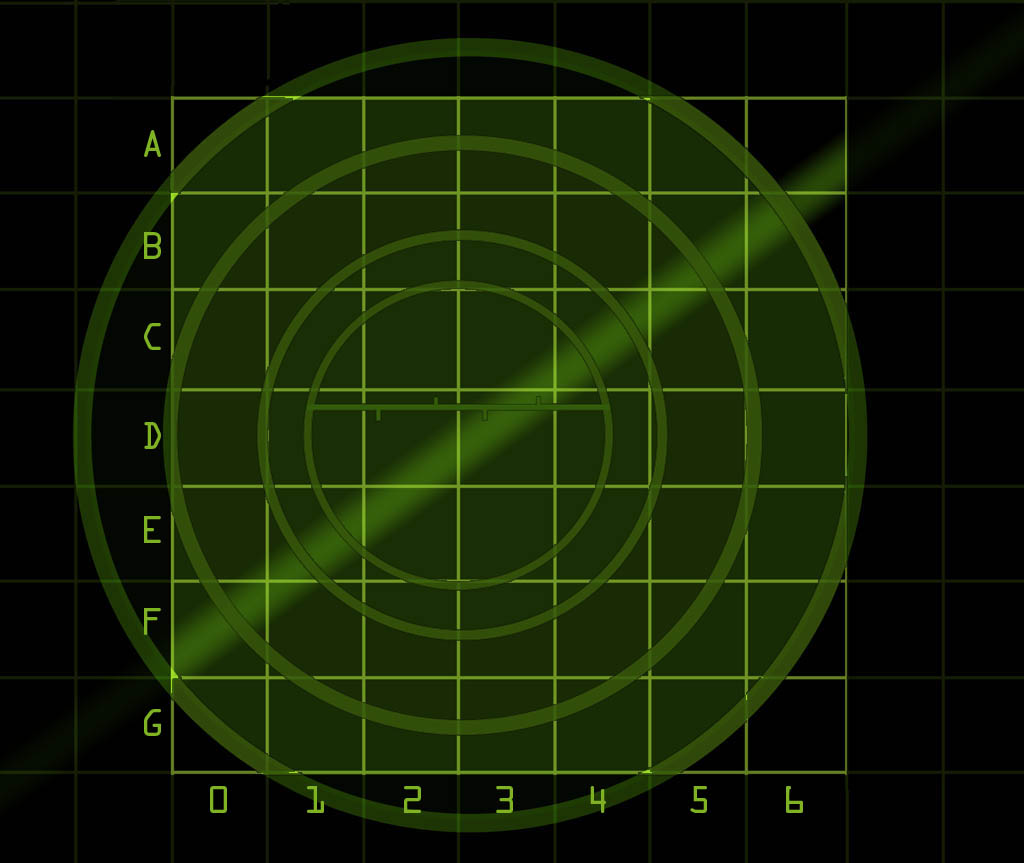
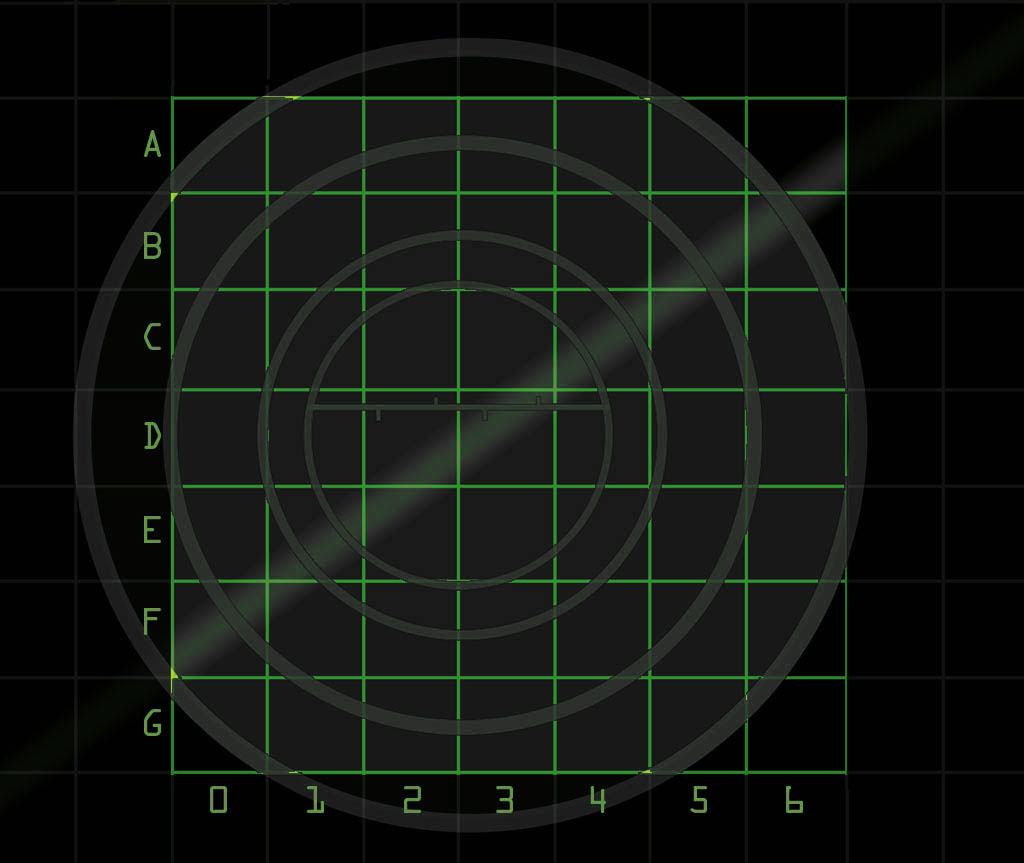
colors of the ship and board have been altered, also the position of the messages has been changes as well as the input size

Changed region(s): [[0.0625, 0.0301, 0.8438, 0.9641]]

diff --git a/index.html b/index.html
@@ -20,9 +20,10 @@
 
         div#messageArea {
             position: absolute;
-            top: 0px;
-            left: 0px;
+            top: 650px;
+            left: 1200px;
             color: rgb(83, 175, 19);
+            font-size: 20px;
         }
         table {
             position: absolute;
@@ -48,6 +49,12 @@
             background-color: rgb(152, 207, 113);
             border-color: rgb(83, 175, 19);
             font-size: lem;
+            padding: 30px;
+            
+        }
+
+        form {
+            margin-bottom: 40px;
         }
 
         .hit {
@@ -62,7 +69,7 @@
 </head>
 <body>
     <div id="board">
-        <div id="messageArea"></div>
+        
         <table>
             <tr>
                 <td id="00"></td><td id="01"></td><td id="02"></td><td id="03">
@@ -93,6 +100,7 @@
                     </td><td id="64"></td><td id="65"></td><td id="66"></td>
             </tr>
         </table>
+        <div id="messageArea"></div>
         <form>
             <input type="text" id="guessInput" placeholder=A0>
             <input type="button" id="fireButton" value="Fire!"> 
